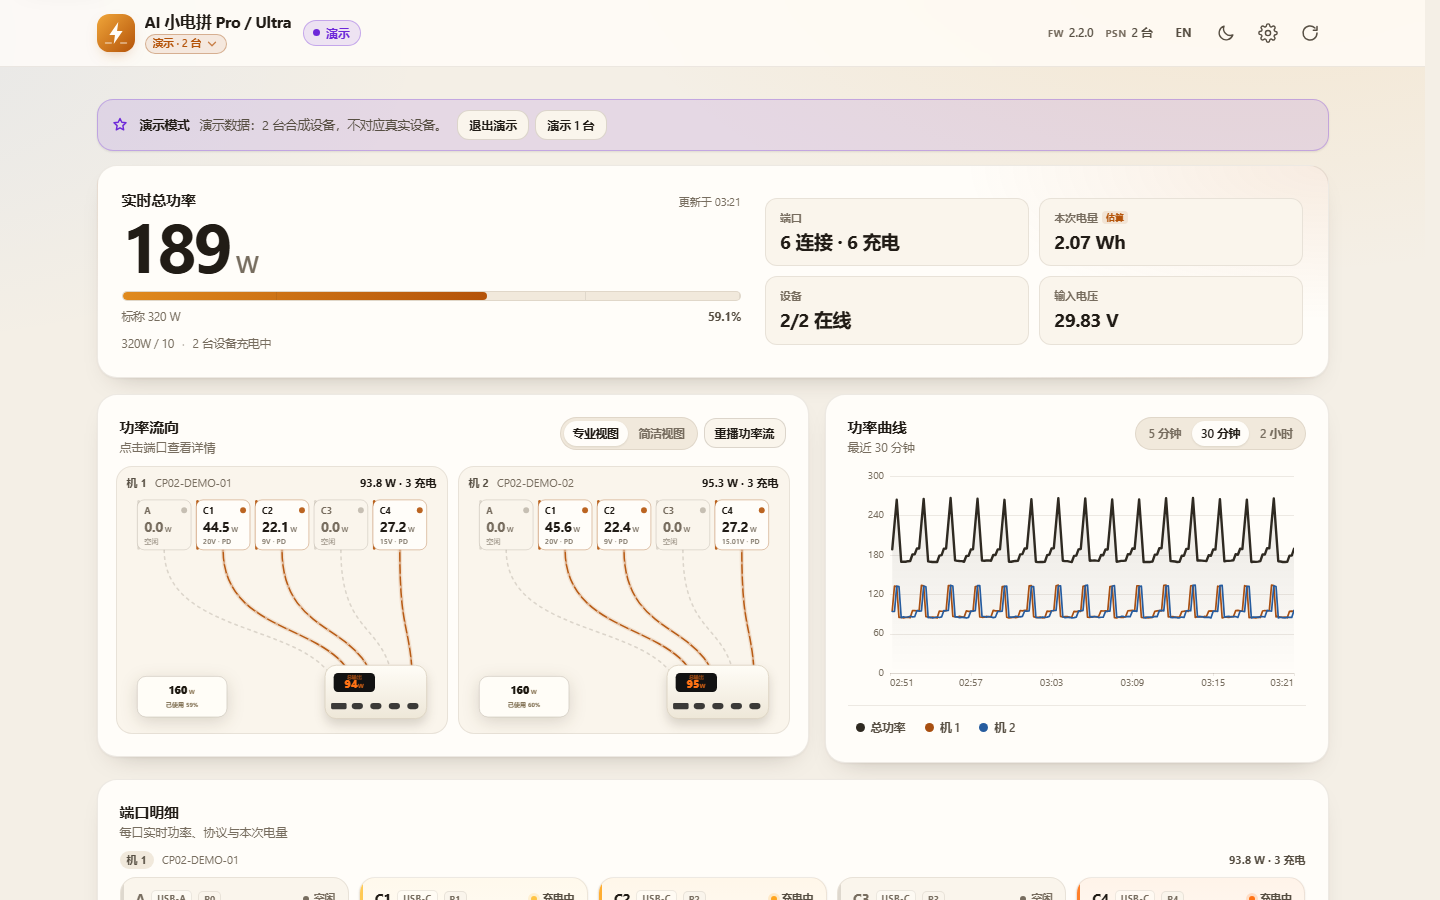
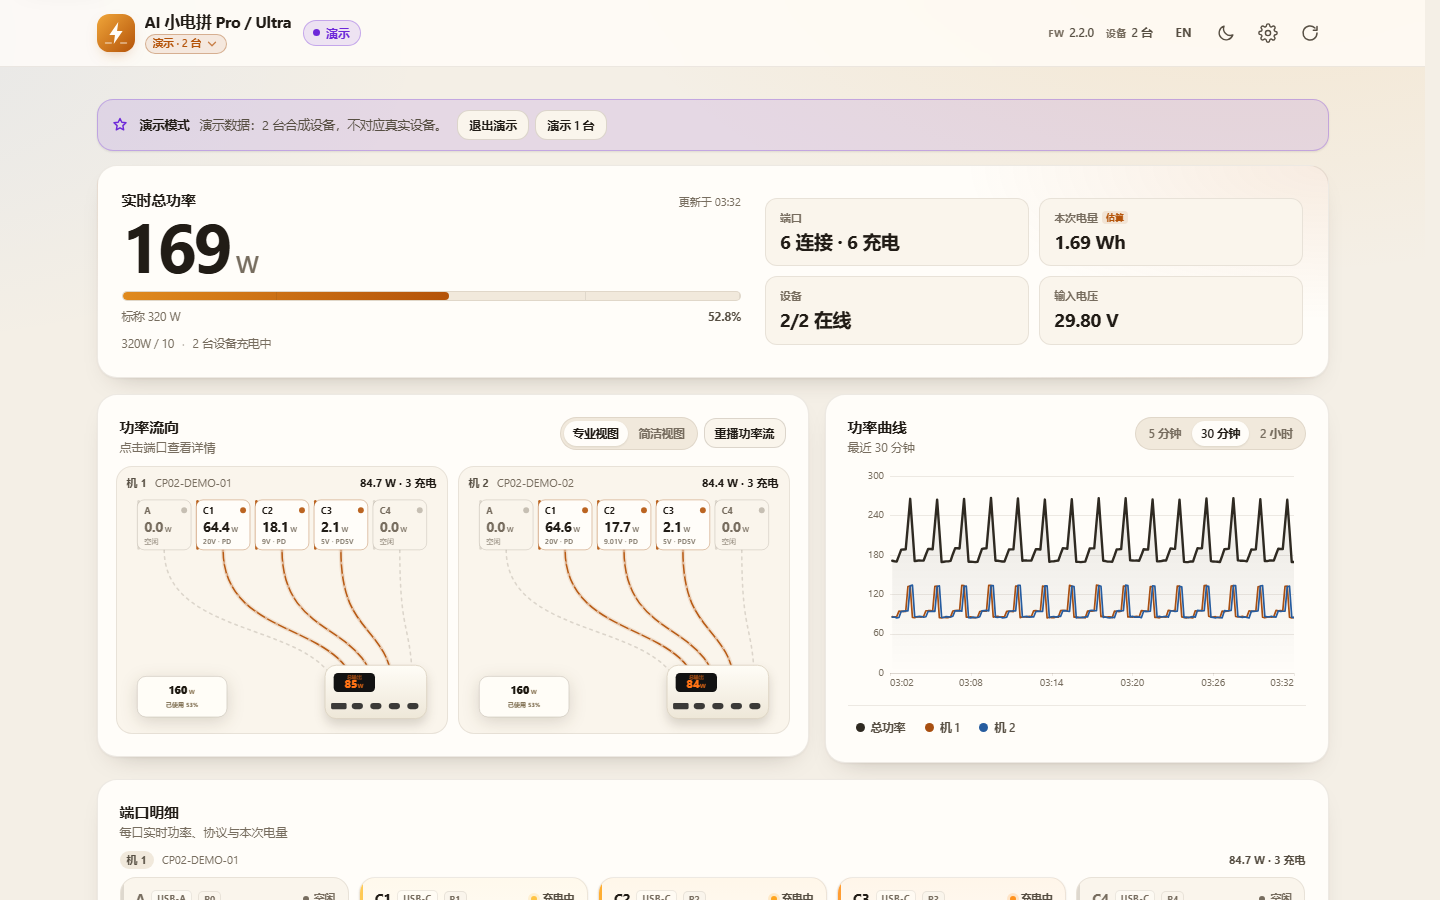
polish: label multi-device header as devices, refresh demo screenshots

diff --git a/assets/js/app.js b/assets/js/app.js
@@ -913,10 +913,13 @@ function renderHeader() {
   const fw = device.esp32Version || primary?.system?.appVersion;
   dom.fwVersion.textContent = fw ? String(fw) : "—";
   const psn = device.psn;
+  const psnKey = dom.psnText.previousElementSibling;
   if (state.multi) {
+    if (psnKey) psnKey.textContent = t("deviceCount");
     dom.psnText.textContent = t("multiBadge", { n: state.devices.length || totalDeviceCount() });
     dom.psnText.title = "";
   } else {
+    if (psnKey) psnKey.textContent = t("labelPsn");
     dom.psnText.textContent = state.demo ? psn || "—" : maskPsn(psn);
     dom.psnText.title = state.demo ? String(psn || "") : t("labelPsn");
   }
